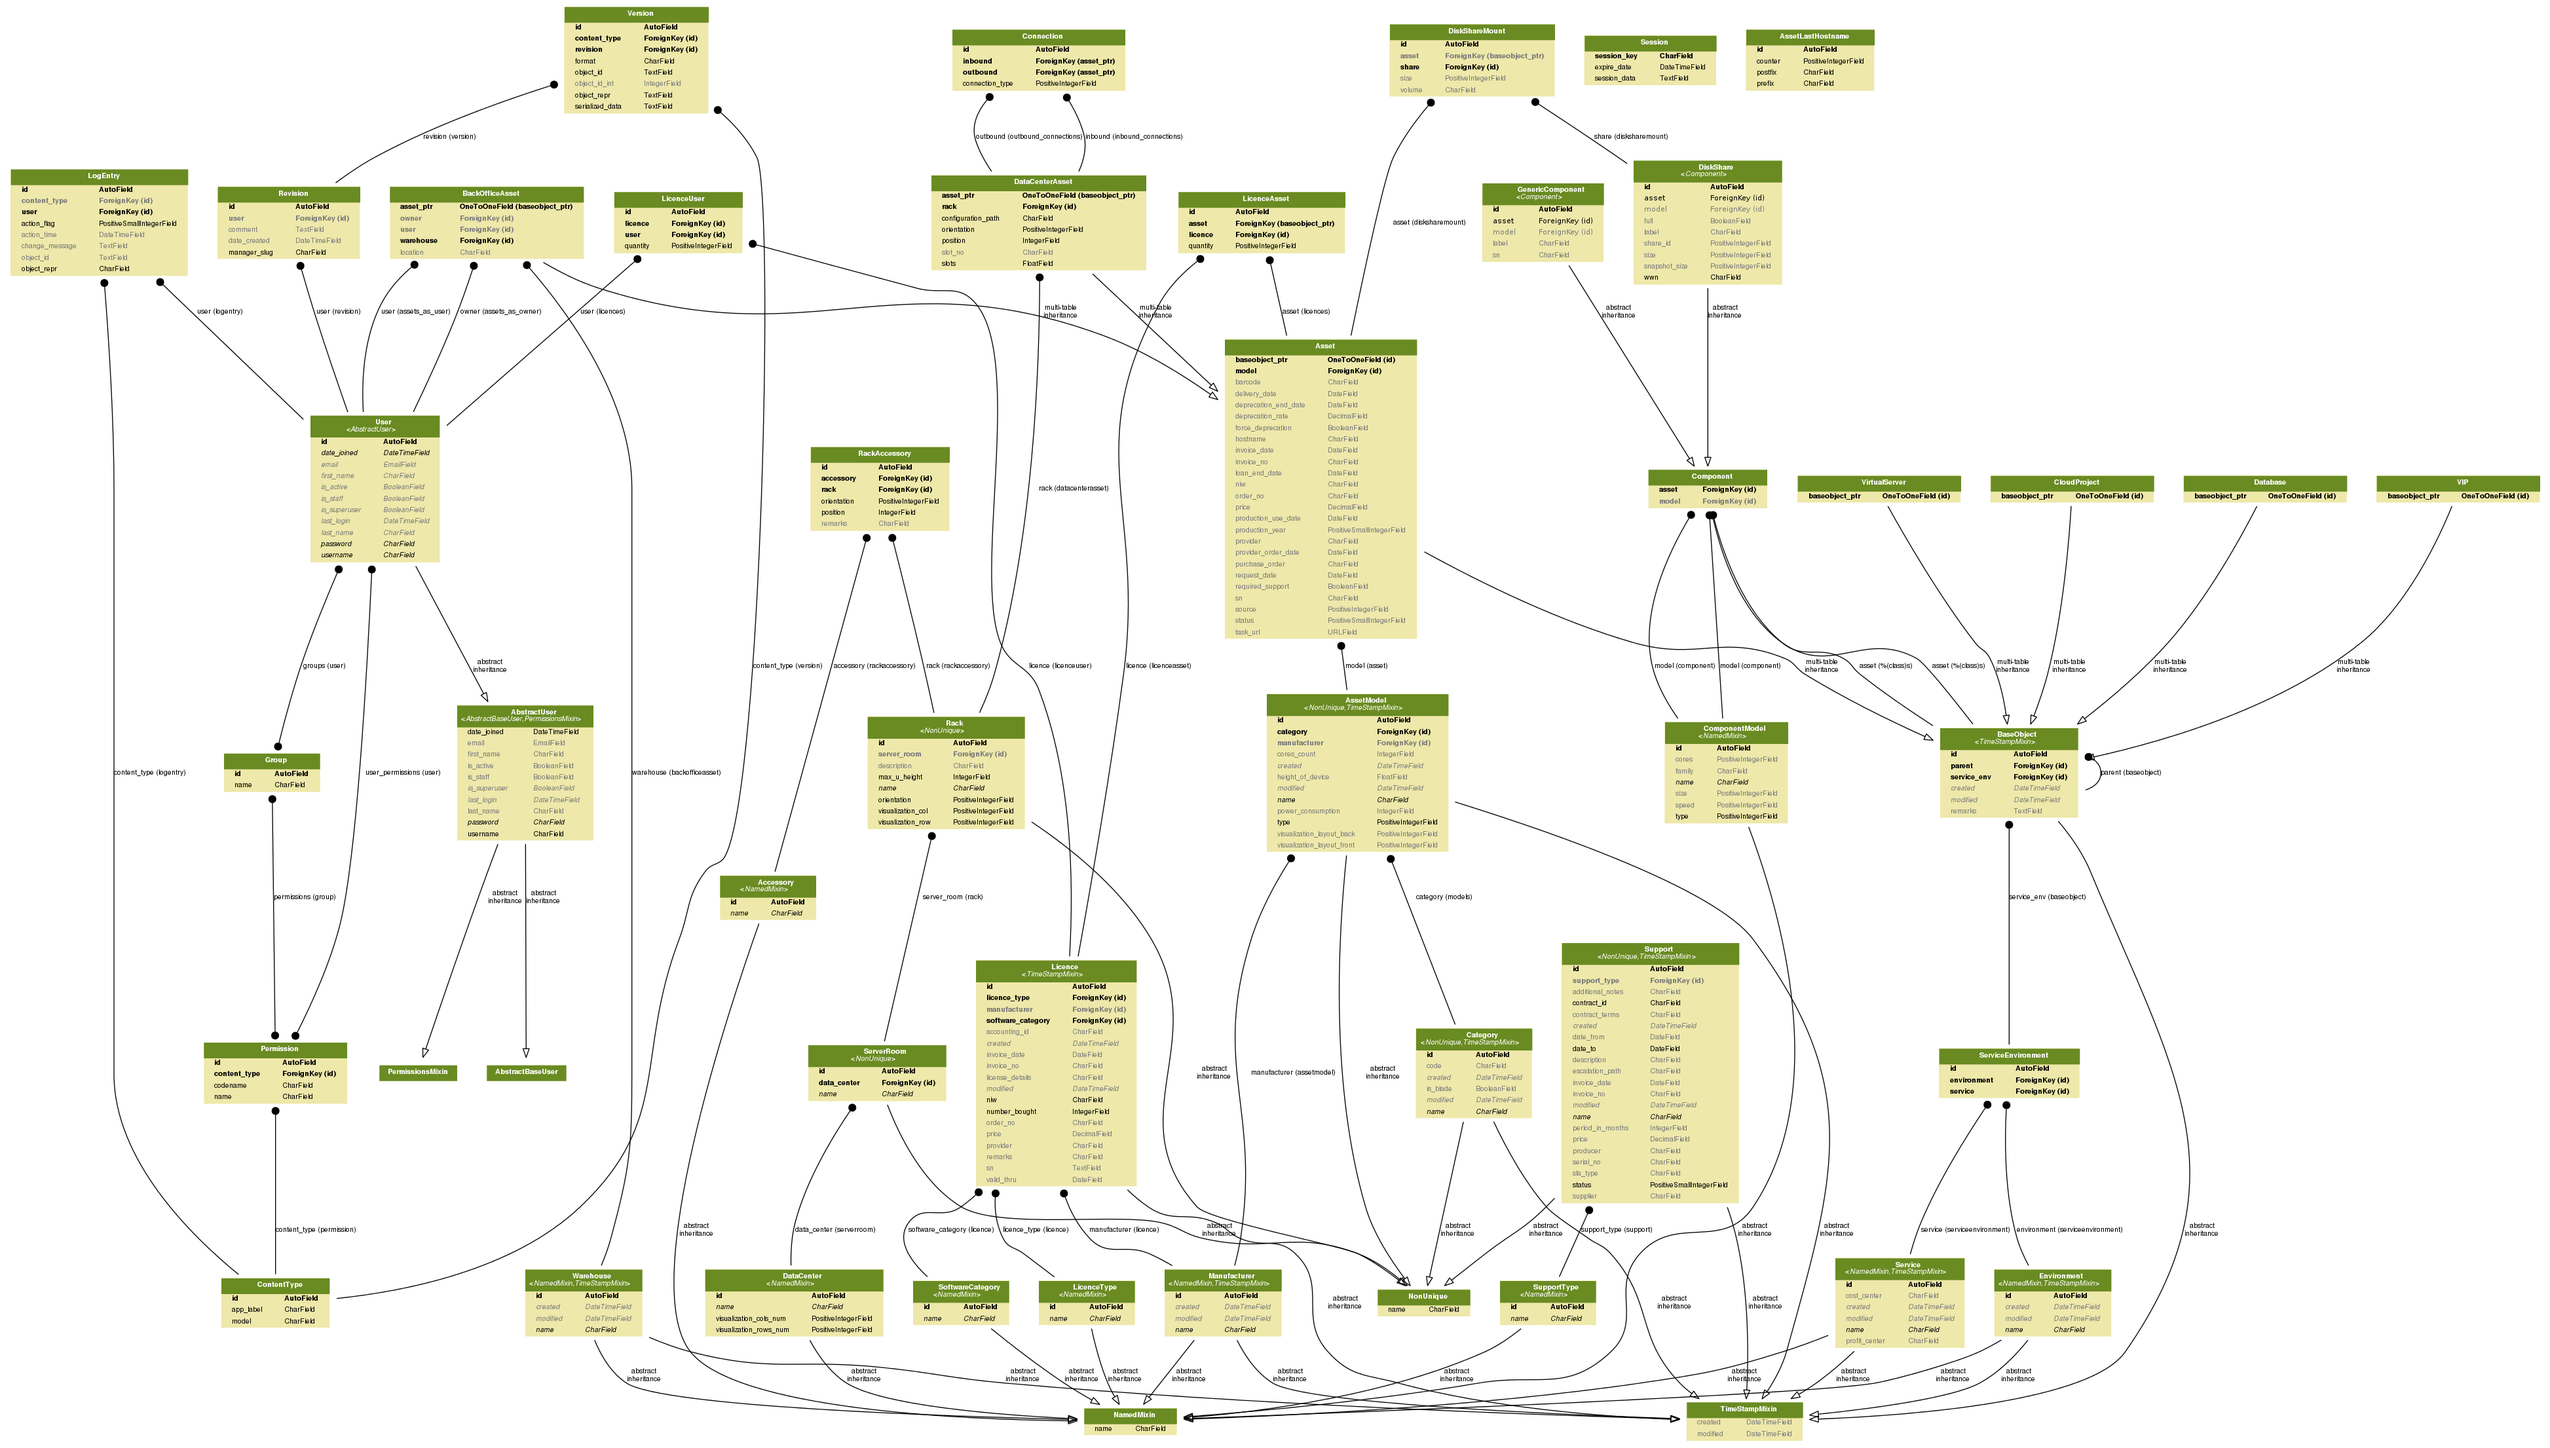
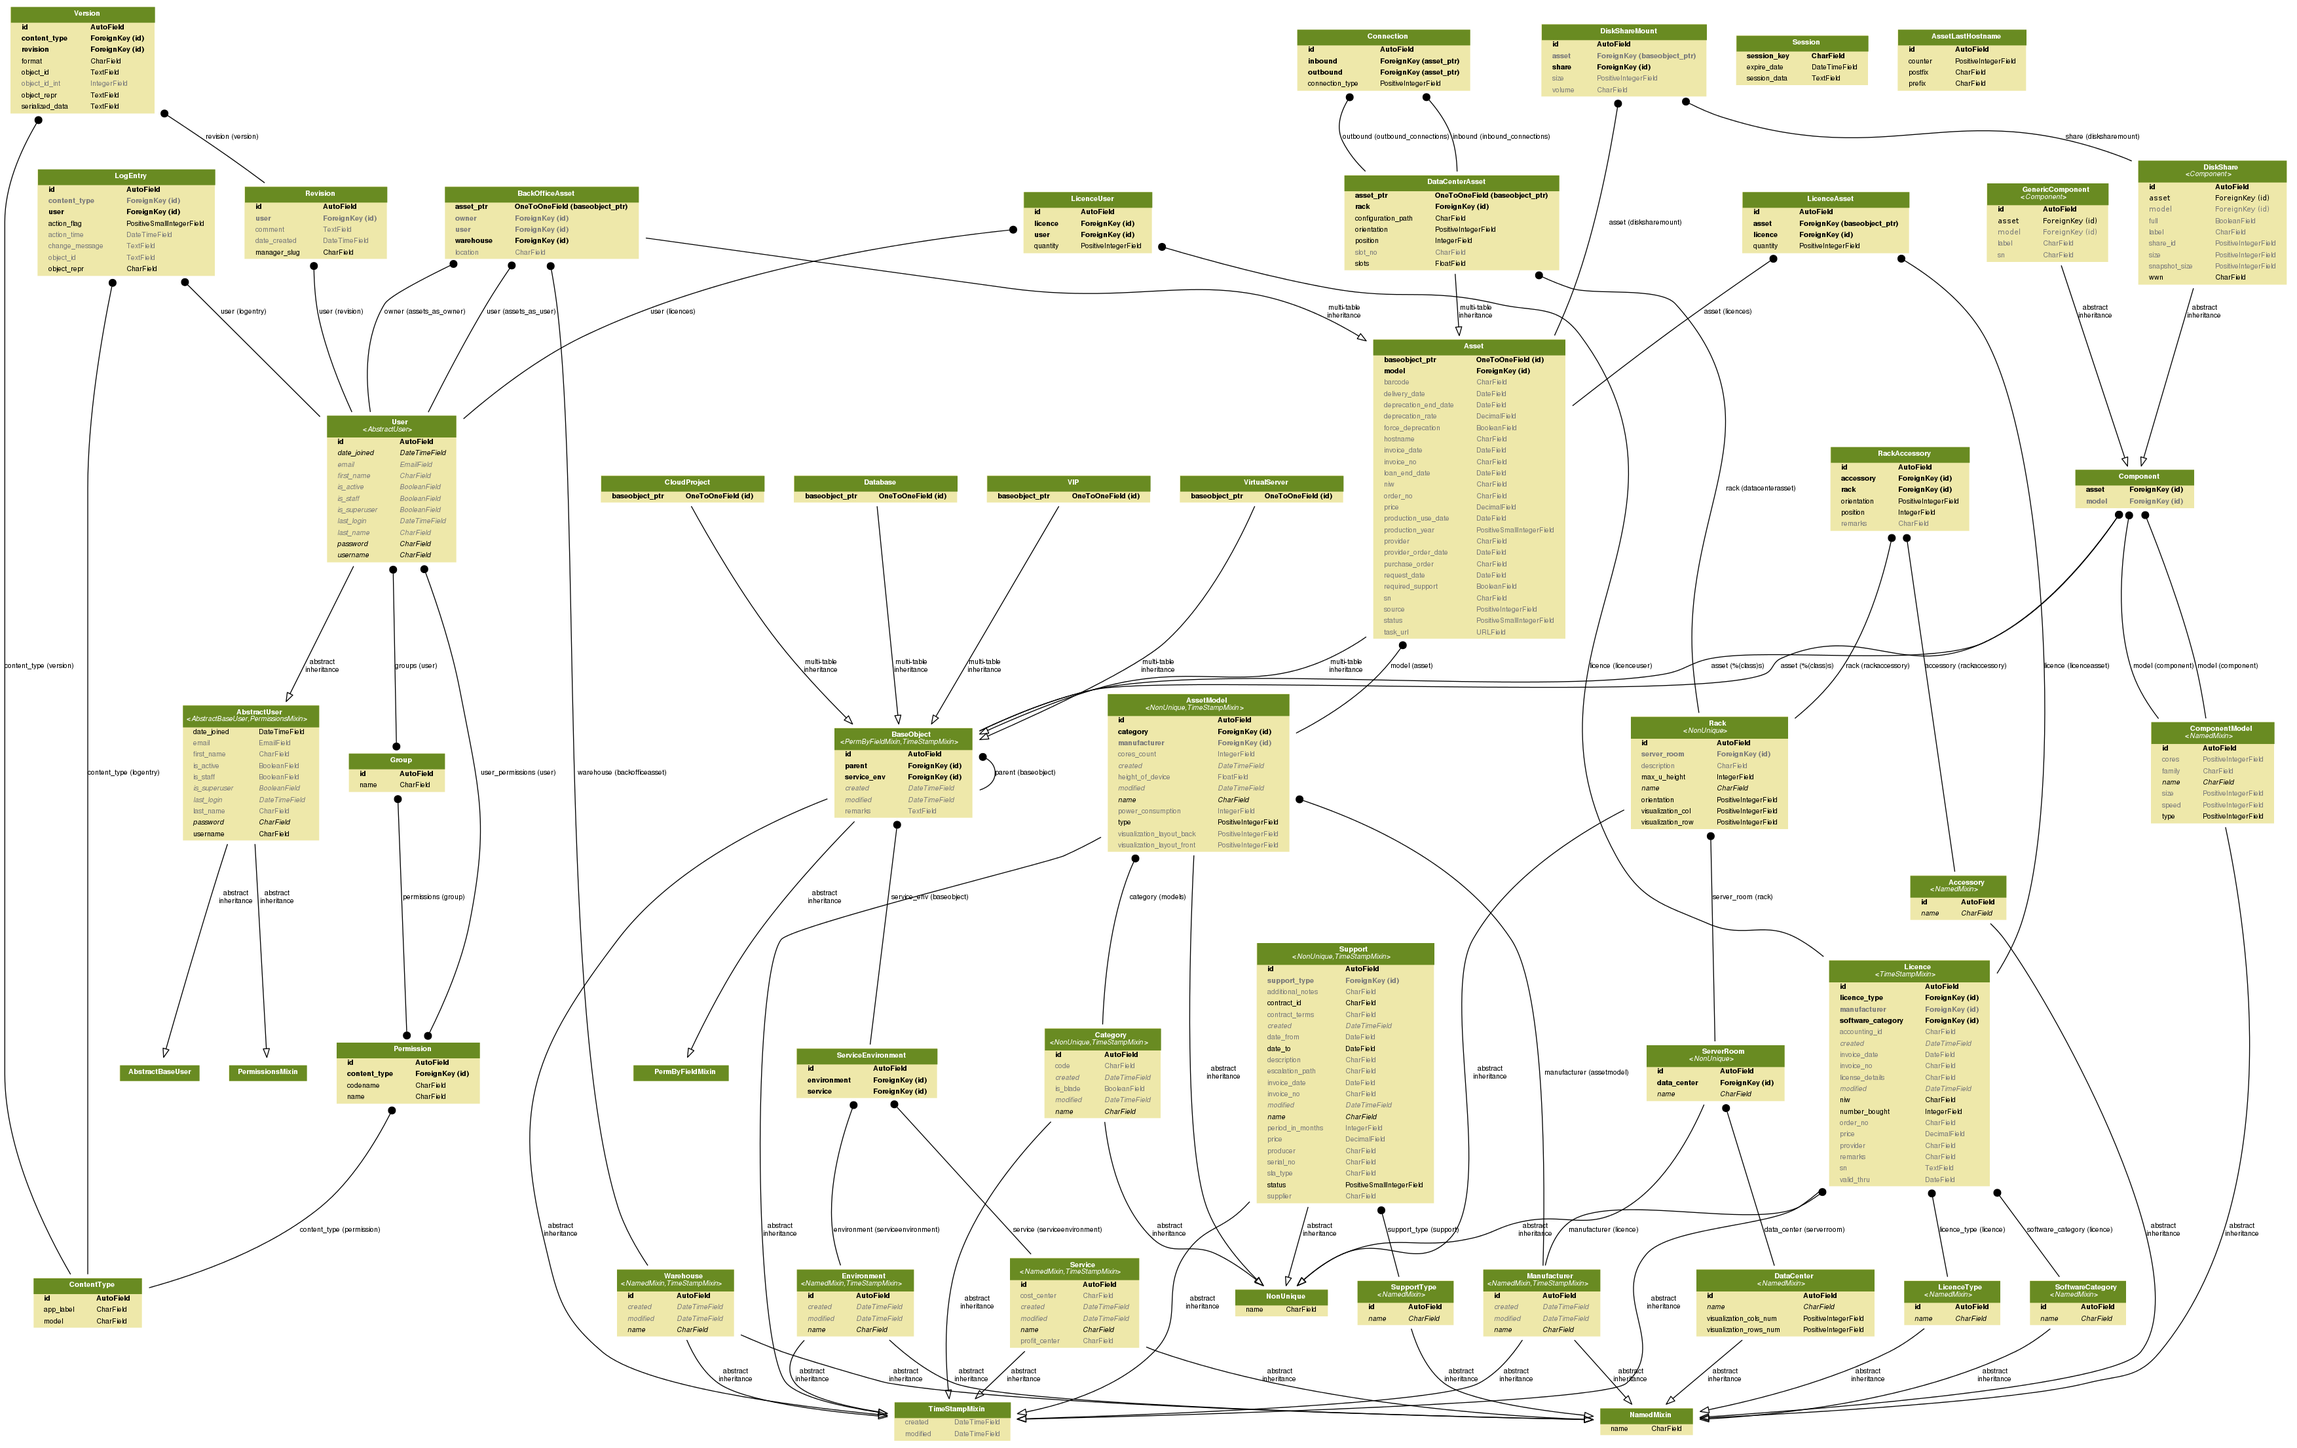
added first step to better permissions

diff --git a/src/ralph/lib/permissions/models.py b/src/ralph/lib/permissions/models.py
@@ -1,0 +1,42 @@
+# -*- coding: utf-8 -*-
+
+from __future__ import absolute_import
+from __future__ import division
+from __future__ import print_function
+from __future__ import unicode_literals
+
+from six import with_metaclass
+
+from django.db import models
+from django.db.models.base import ModelBase
+from django.utils.translation import ugettext_lazy as _
+
+
+class PermissionByFieldBase(ModelBase):
+    """Extends permissions by edit per field of model."""
+    def __new__(cls, name, bases, attrs):
+        new_class = super(PermissionByFieldBase, cls).__new__(
+            cls, name, bases, attrs
+        )
+        for field in new_class._meta.fields:
+            name = field.name
+            new_class._meta.permissions.append((
+                'can_edit_{}_field'.format(name),
+                _('Can edit {} field').format(name)
+            ))
+        return new_class
+
+
+class PermByFieldMixin(with_metaclass(PermissionByFieldBase, models.Model)):
+
+    # TODO
+    def have_access_to_field(self, field, user=None, group=None):
+        pass
+
+    # TODO
+    @property
+    def allowed_fields(self, user=None, group=None):
+        pass
+
+    class Meta:
+        abstract = True

diff --git a/src/ralph/assets/migrations/0001_initial.py b/src/ralph/assets/migrations/0001_initial.py
@@ -48,7 +48,6 @@ class Migration(migrations.Migration):
                 ('remarks', models.TextField(blank=True)),
             ],
             options={
-                'ordering': ('-modified', '-created'),
                 'abstract': False,
             },
         ),
@@ -170,7 +169,6 @@ class Migration(migrations.Migration):
                 ('loan_end_date', models.DateField(default=None, null=True, verbose_name='Loan end date', blank=True)),
             ],
             options={
-                'ordering': ('-modified', '-created'),
                 'abstract': False,
             },
             bases=('assets.baseobject',),

diff --git a/src/ralph/data_center/migrations/0001_initial.py b/src/ralph/data_center/migrations/0001_initial.py
@@ -29,7 +29,6 @@ class Migration(migrations.Migration):
                 ('baseobject_ptr', models.OneToOneField(parent_link=True, auto_created=True, primary_key=True, serialize=False, to='assets.BaseObject')),
             ],
             options={
-                'ordering': ('-modified', '-created'),
                 'abstract': False,
             },
             bases=('assets.baseobject',),

diff --git a/src/ralph/assets/models/base.py b/src/ralph/assets/models/base.py
@@ -8,9 +8,10 @@ from __future__ import unicode_literals
 from django.db import models
 
 from ralph.assets.models.mixins import TimeStampMixin
+from ralph.lib.permissions import PermByFieldMixin
 
 
-class BaseObject(TimeStampMixin, models.Model):
+class BaseObject(PermByFieldMixin, TimeStampMixin, models.Model):
 
     """Base object mixin."""
 

diff --git a/src/ralph/lib/permissions/__init__.py b/src/ralph/lib/permissions/__init__.py
@@ -1,0 +1,8 @@
+# -*- coding: utf-8 -*-
+
+from __future__ import absolute_import
+from __future__ import division
+from __future__ import print_function
+from __future__ import unicode_literals
+
+from ralph.lib.permissions.models import PermByFieldMixin
